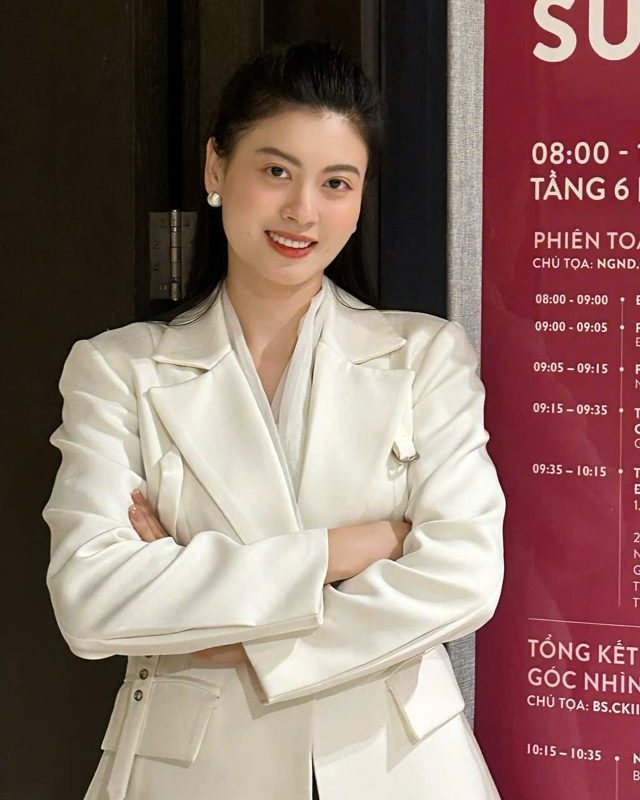
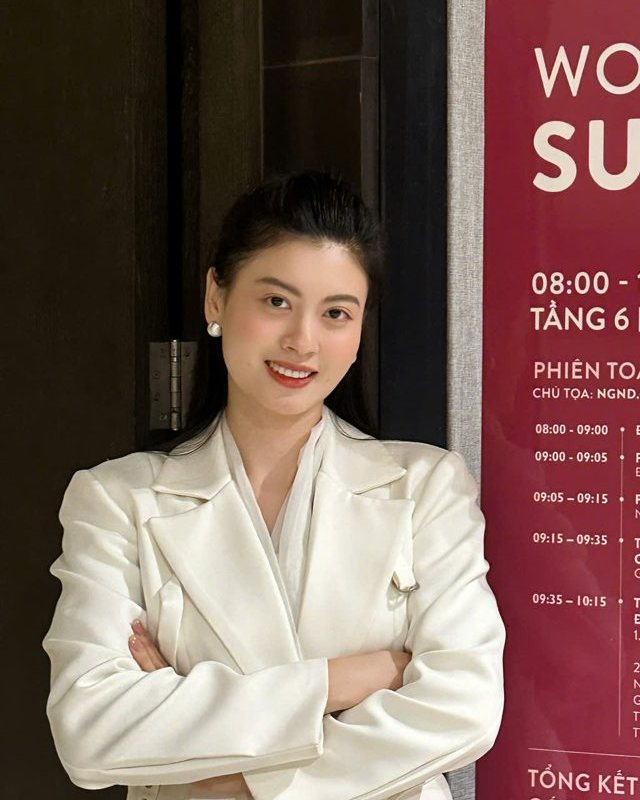
Fix middle service image crop and bust CSS/JS cache

diff --git a/index.html b/index.html
@@ -8,7 +8,7 @@
 <link rel="preconnect" href="https://fonts.googleapis.com">
 <link rel="preconnect" href="https://fonts.gstatic.com" crossorigin>
 <link href="https://fonts.googleapis.com/css2?family=Be+Vietnam+Pro:wght@300;400;500;600&family=Cormorant+Garamond:ital,wght@0,500;0,600;1,500&family=Noto+Sans+SC:wght@400;500&family=Noto+Serif+SC:wght@500;600&display=swap" rel="stylesheet">
-<link rel="stylesheet" href="style.css">
+<link rel="stylesheet" href="style.css?v=4">
 </head>
 <body>
 
@@ -242,6 +242,6 @@
   <button class="lb-btn lb-n" id="lbn" aria-label="Next">›</button>
 </div>
 
-<script src="script.js"></script>
+<script src="script.js?v=4"></script>
 </body>
 </html>

diff --git a/style.css b/style.css
@@ -294,3 +294,5 @@ body.present .slide.active{animation:slideIn .55s cubic-bezier(.2,.7,.2,1) both}
 @media (prefers-reduced-motion:reduce){.par{transform:none}.waves{animation:none}.progress{display:none}}
 
 .hero-photo .photo img{--ps:1.04}
+
+.svc .ph img{object-position:50% 25%}
